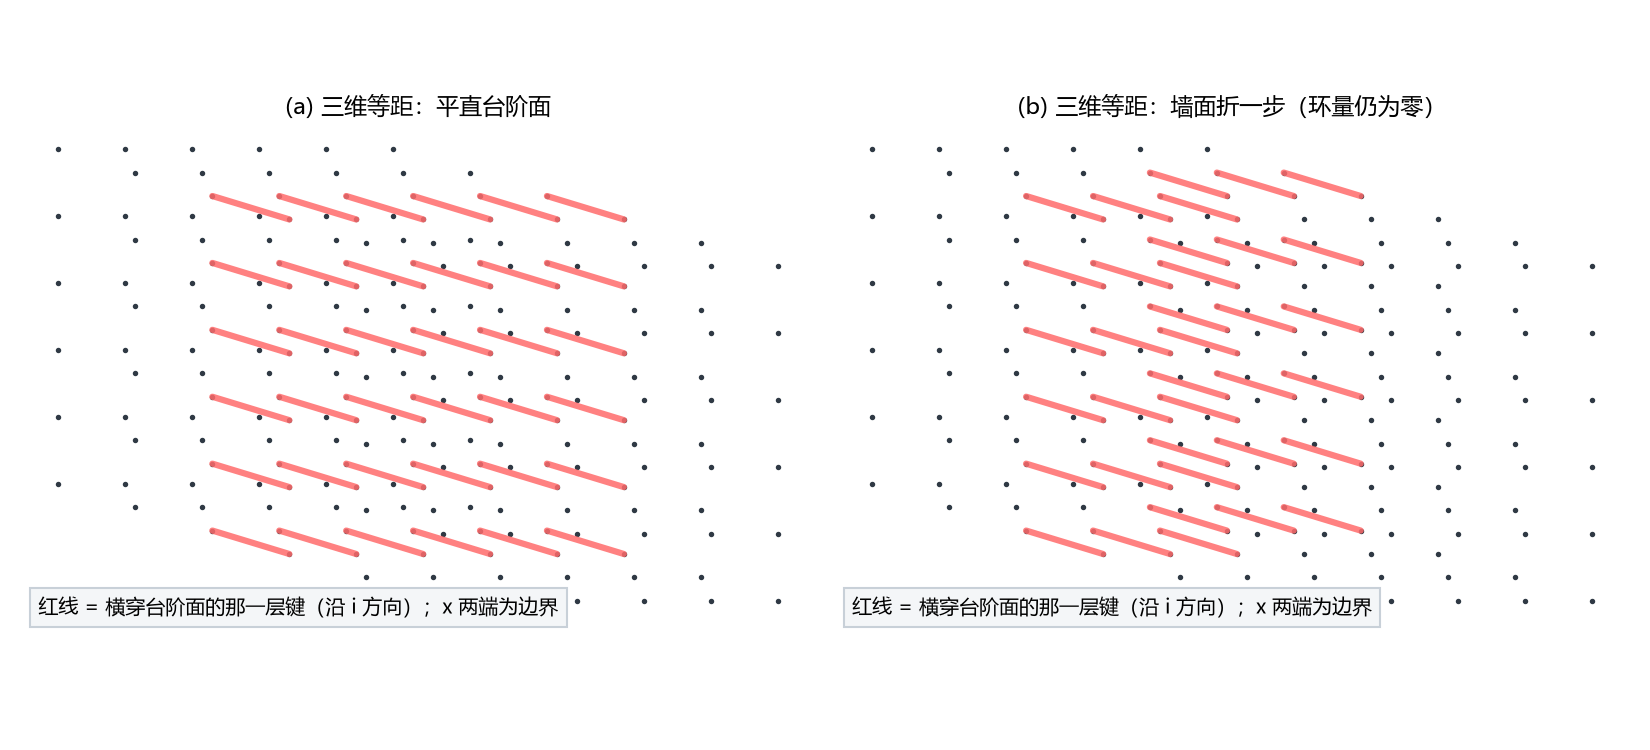
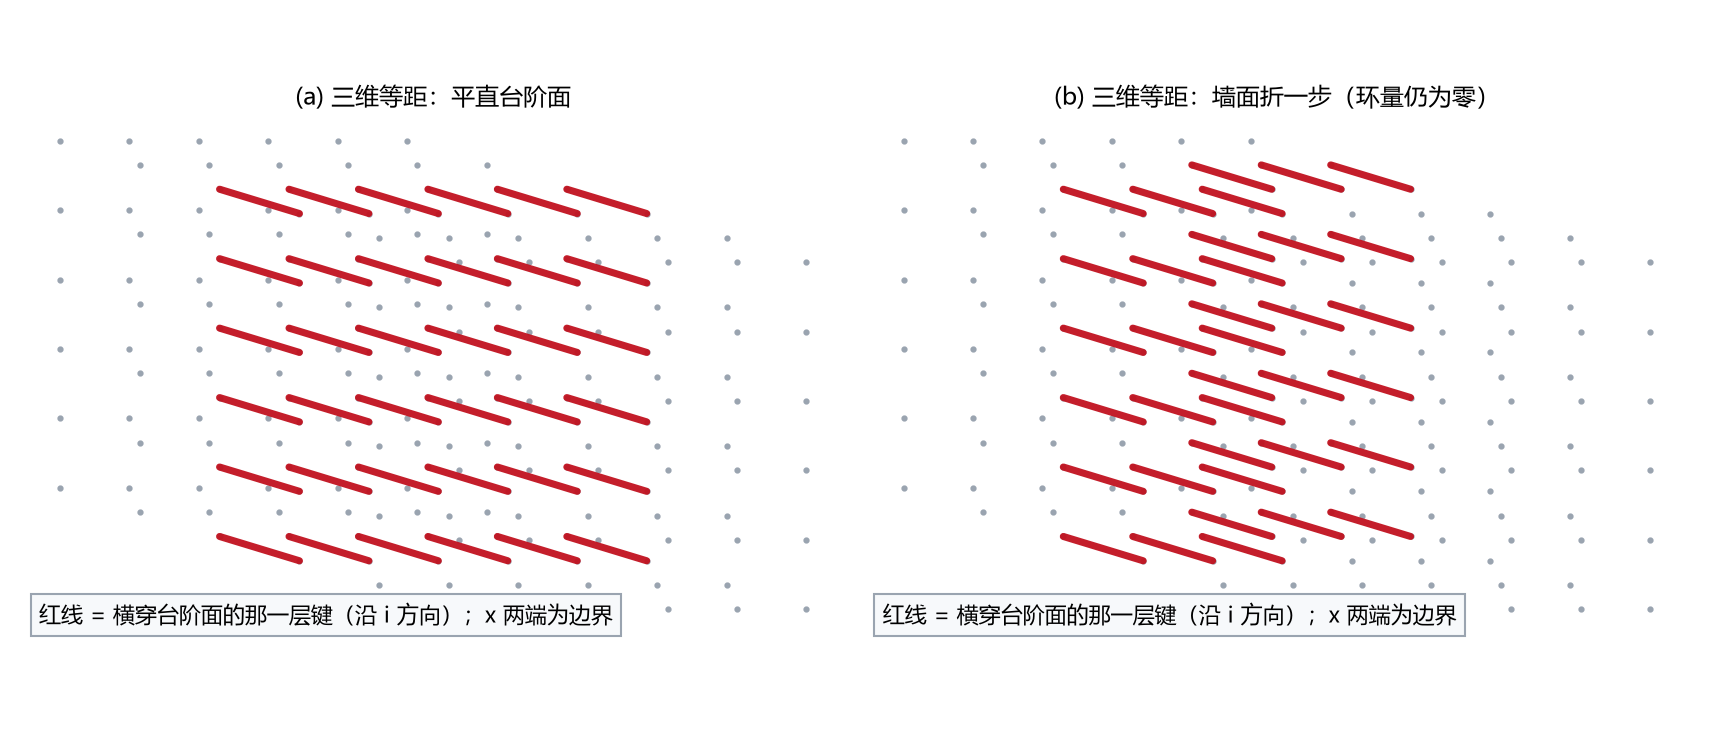
论文配图改配色（按作者意见提升对比）：近零键改浅灰细线退到背景、中等棱差改深蓝粗线、整圈跳变改猩红更粗，环量非零面元改金橙填充加深色描边；两幅面板重出，图 1 图注改写以说明三级配色含义

diff --git a/台阶面的拓扑：三维元相子缺陷的结构、保护与写入节拍.md b/台阶面的拓扑：三维元相子缺陷的结构、保护与写入节拍.md
@@ -73,7 +73,7 @@ $$\Omega_p = \vartheta_1 + \vartheta_2 - \vartheta_3 - \vartheta_4。$$
 
 由此得一条判据级的表述：荷住在由棱差构成的关系层上，它按面元计数、按同调类分类，三维中不存在承载它的局域对象。第 281 条把这一条登记为口径更正，并撤回「自由弦端不可存在」的论证。
 
-![图 1：二维横截面上台阶面的两种形态。(a) 平直墙面：粗键是相位跳一格的键层，观测口径下全场环量为零，沿横列累加棱差给绕数 $-1.000000$（由边界锁住）。(b) 核线（环的横截面）：恰好一个面元给出整圈 $+1$，即 $+2\pi$；其余面元为零。参数取 $K = 0.001$、格点 $12\times12$，与 `可视化/台阶面在晶格上：三维元相子缺陷的晶格可视化.html` 同一模型。](images/wall_lattice_2d.png)
+![图 1：二维横截面上台阶面的两种形态。(a) 平直墙面：深蓝键是台阶面所在的那一层键（观测口径下每键约 $0.3$，即半个台阶），浅灰细键是近零棱差，整圈跳变只在描述口径下显形为猩红键；全场环量为零，沿横列累加棱差给绕数 $-1.000000$（由边界锁住）。(b) 核线（环的横截面）：恰好一个面元被金橙填充并标 $+1$，即 $+2\pi$；其余面元为零。参数取 $K = 0.001$、格点 $12\times12$，与 `可视化/台阶面在晶格上：三维元相子缺陷的晶格可视化.html` 同一模型。](images/wall_lattice_2d.png)
 
 ## 4 台阶面的解析解与张力
 
